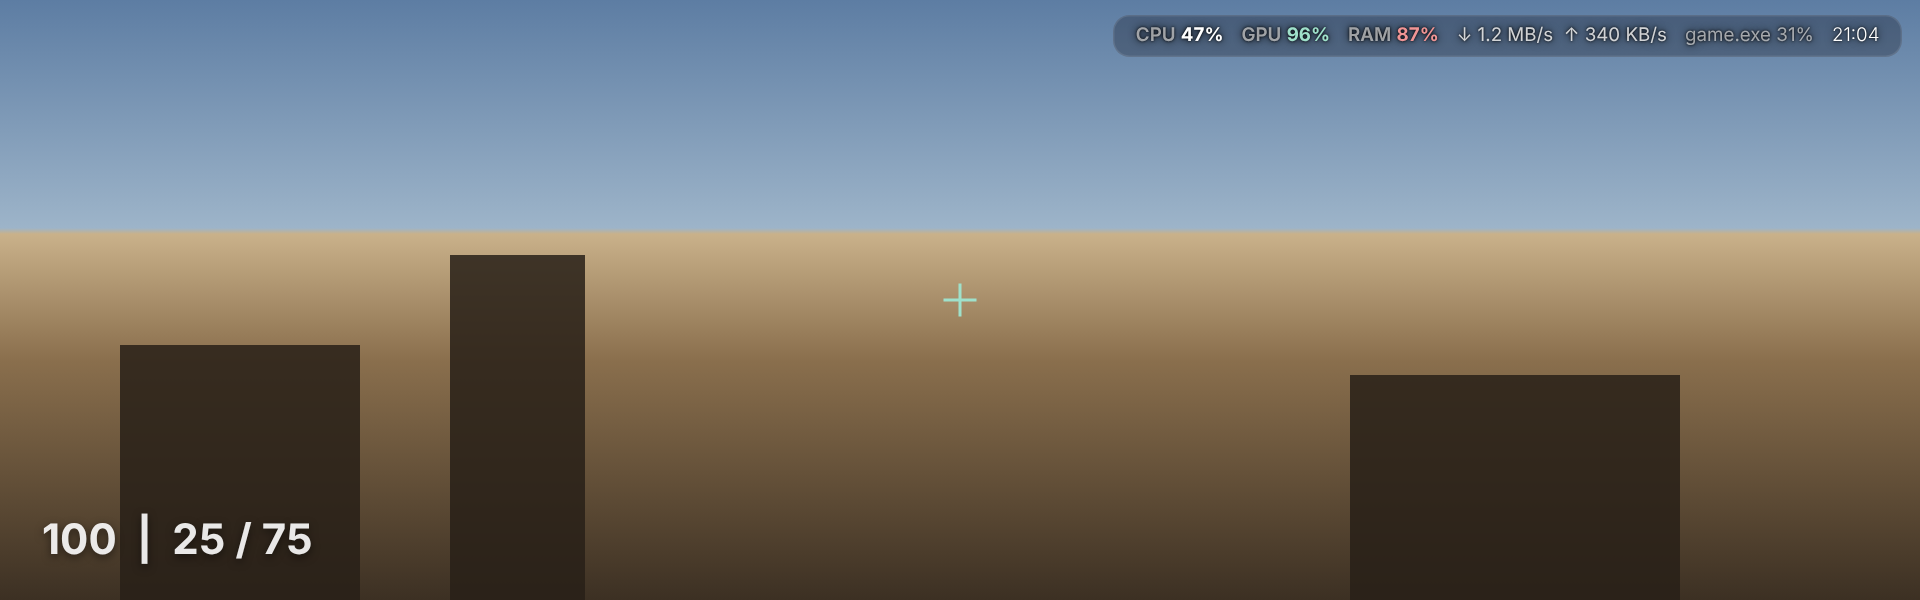
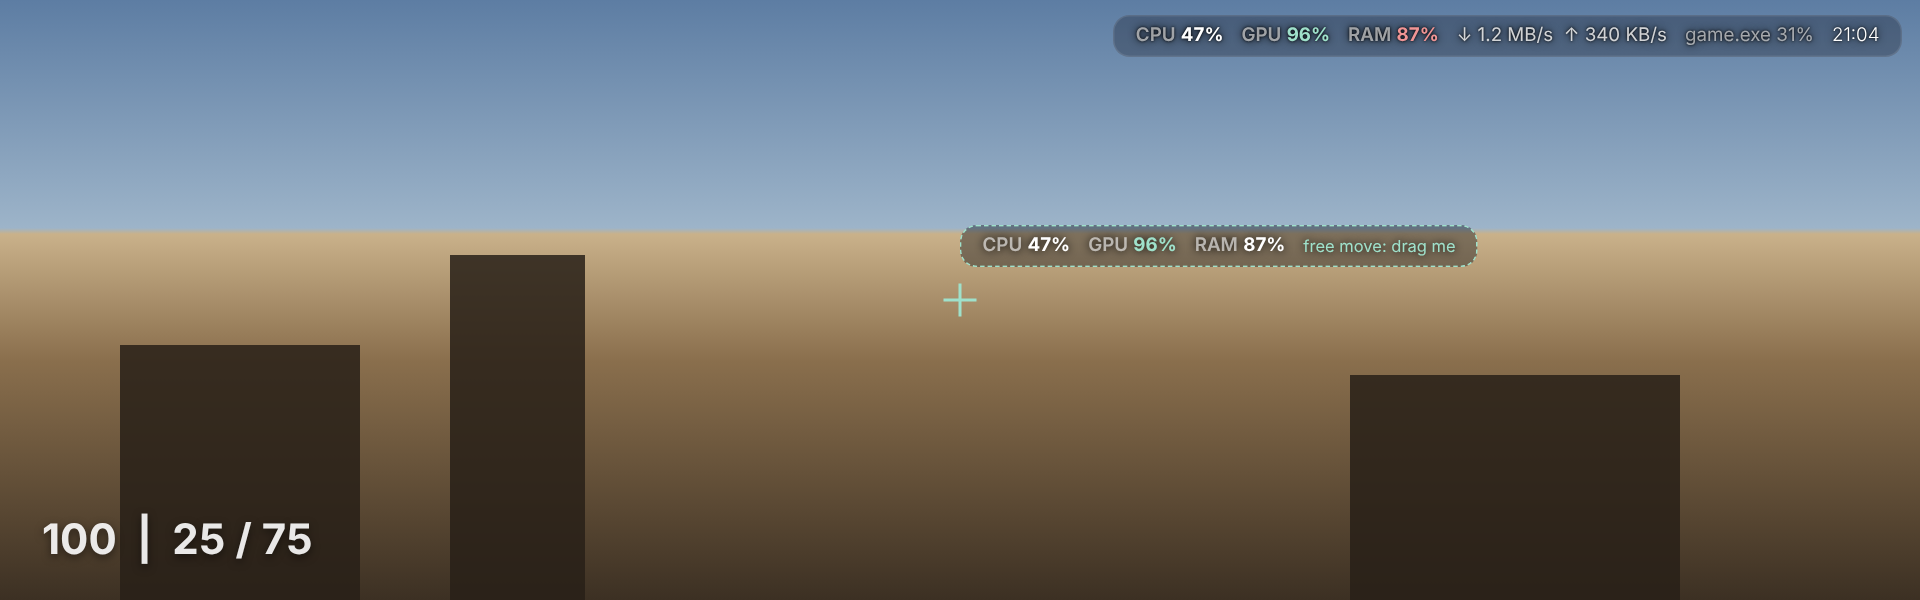
v6: all disks, free-move overlay, faint box at 0%
- Detect every ready fixed/removable drive; per-disk tick boxes in Settings
- Overlay: pin to 5 spots or Free move (drag anywhere, untick to lock,
  click-through again); Ctrl+Alt+M hotkey; custom spot saved per screen fraction
- Widget Clear style keeps a faint ghost of the box at 0%
- Settings window now two columns
- README and images updated

Claude-Session: https://claude.ai/code/session_01RP7FEh2wzL7y17a24F9dcJ

Changed region(s): [[0.5, 0.36, 0.7812, 0.45]]

diff --git a/README.md b/README.md
@@ -13,12 +13,13 @@ No Rainmeter, no HWiNFO, no installer, no admin rights. One `.ps1` file.
 
 | | |
 |---|---|
-| **Live stats** | CPU, GPU, RAM, disk C:, network up/down, battery, uptime, top CPU app, top RAM app, clock |
+| **Live stats** | CPU, GPU, RAM, **every disk in your PC**, network up/down, battery, uptime, top CPU app, top RAM app, clock |
 | **60-second graph** | CPU and GPU history |
 | **Clear or glass** | *Clear* gives real see-through transparency down to 0 %. *Acrylic* and *Mica* give the Windows 11 blur |
 | **Game overlay** | Thin click-through bar that stays on top of every app, on every monitor |
 | **Global hotkeys** | Work while you're in a game |
-| **Background sliders** | One for the widget, one for the overlay. At 0 % only the text is left, with a shadow so it stays readable |
+| **Background sliders** | One for the widget, one for the overlay. At 0 % the widget keeps the text plus a faint ghost of its box, and the overlay keeps only the text, with a shadow so it stays readable |
+| **Pin or free-move the overlay** | Pin it to any corner or the top center, or drag it anywhere and lock it there |
 | **Pick your metrics** | Tick what you want to see. Unticked metrics aren't collected at all |
 | **Lightweight** | Runs at BelowNormal priority with a 2 s refresh and periodic memory trim |
 | **Status pill** | Shows `chill` below 40 % CPU, `busy` from 40–85 %, and `hot!` above 85 % (numbers also turn red) |
@@ -94,8 +95,11 @@ powershell -NoProfile -STA -ExecutionPolicy Bypass -File .\LiquidHUD.ps1
 
 | Setting | What it does |
 |---|---|
-| **Widget background** | 0 % is fully see-through (text only), 100 % is solid |
-| **Game overlay background** | Same, for the overlay bar |
+| **Widget background** | 0 % keeps the text and a faint outline of the box. Slide right and the box fades in until it's solid at 100 % |
+| **Game overlay background** | 0 % is text only, 100 % is a solid bar |
+| **Overlay position** | Top left, Top center, Top right, Bottom left, Bottom right, or Custom (where you last dropped it) |
+| **Free move** | Tick it, then drag the overlay anywhere (it gets a dashed outline). Untick it and the overlay locks in place and goes back to click-through, so it never blocks what's behind it |
+| **Disks** | Every ready fixed or removable drive is listed with its label and size. Tick the ones you want on the widget. New drives show up the next time you open Settings |
 | **Style** | **Clear** (default) gives real transparency. **Acrylic blur** and **Mica** give the Windows 11 frosted glass. Blur always keeps some grey tint, so use Clear if you want it fully see-through |
 | **What to monitor** | Tick a metric to show and collect it. Untick it to hide it and stop collecting it |
 | **Refresh rate** | 1 s, 2 s or 5 s. Slower uses less CPU |
@@ -112,10 +116,11 @@ Settings are saved to `%APPDATA%\LiquidHUD\settings.json`.
 ![Overlay bar on top of a game](docs/images/overlay.png)
 
 1. Press **`Ctrl+Alt+O`** to turn the overlay on.
-2. Press **`Ctrl+Alt+P`** to move it. It cycles through top left, top center, top right, bottom left and bottom right.
+2. Press **`Ctrl+Alt+P`** to cycle its pinned position: top left, top center, top right, bottom left, bottom right, custom.
+   - **Or put it anywhere:** press **`Ctrl+Alt+M`** (or tick **Free move** in Settings), drag the bar where you want it, then press `Ctrl+Alt+M` again to lock it. Its spot is saved as a fraction of the screen, so it lands in the same place on every monitor.
 3. Press **`Ctrl+Alt+H`** to hide the big widget so only the overlay stays.
 
-The overlay is **click-through**: your mouse goes straight to the game, and it never steals focus or shows up in Alt+Tab.
+When it's locked, the overlay is **click-through**: your mouse goes straight to the game, and it never steals focus or shows up in Alt+Tab.
 
 > **Important:** set your game's display mode to **Borderless** or **Windowed Fullscreen**. In **Exclusive Fullscreen** the game takes over the whole display and no overlay can draw on top. That's a Windows limit, not a bug in LiquidHUD.
 
@@ -130,6 +135,7 @@ The overlay is **click-through**: your mouse goes straight to the game, and it n
 | `Ctrl+Alt+S` | Open Settings |
 | `Ctrl+Alt+O` | Toggle game overlay |
 | `Ctrl+Alt+P` | Cycle overlay position |
+| `Ctrl+Alt+M` | Free move overlay on/off (drag it, then press again to lock) |
 | `Ctrl+Alt+H` | Hide / show widget |
 | Double-click widget | Open Task Manager |
 | Right-click widget | Menu |
@@ -145,7 +151,7 @@ The overlay is **click-through**: your mouse goes straight to the game, and it n
 |                              |                           |                         |
 |  PerformanceCounter (CPU,GPU)|                           |  Widget window          |
 |  ComputerInfo (RAM)          |                           |   (Clear / Acrylic)     |
-|  DriveInfo (disk)            |                           |  Overlay window(s)      |
+|  DriveInfo (all disks)       |                           |  Overlay window(s)      |
 |  NetworkInterface (net)      |                           |   (layered, click-thru) |
 |  PowerStatus (battery)       |                           |  Settings window        |
 |  Process list (top apps)     |                           |                         |
